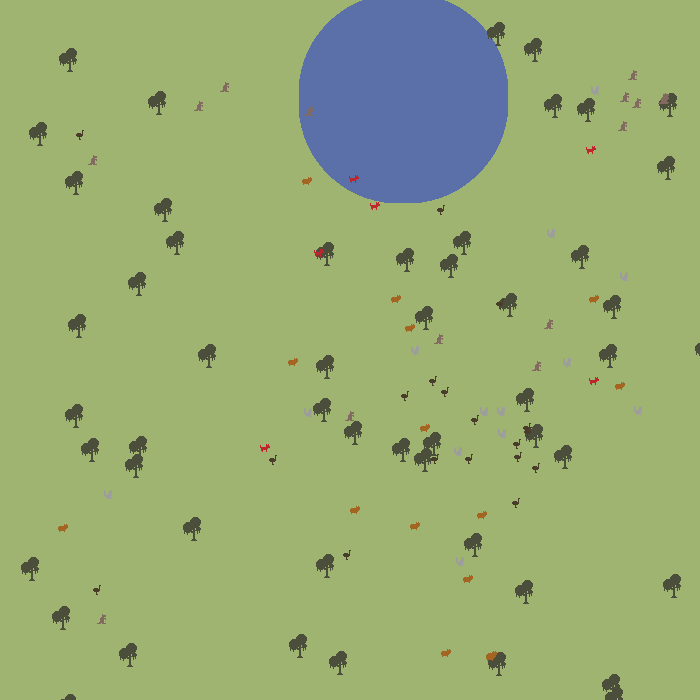
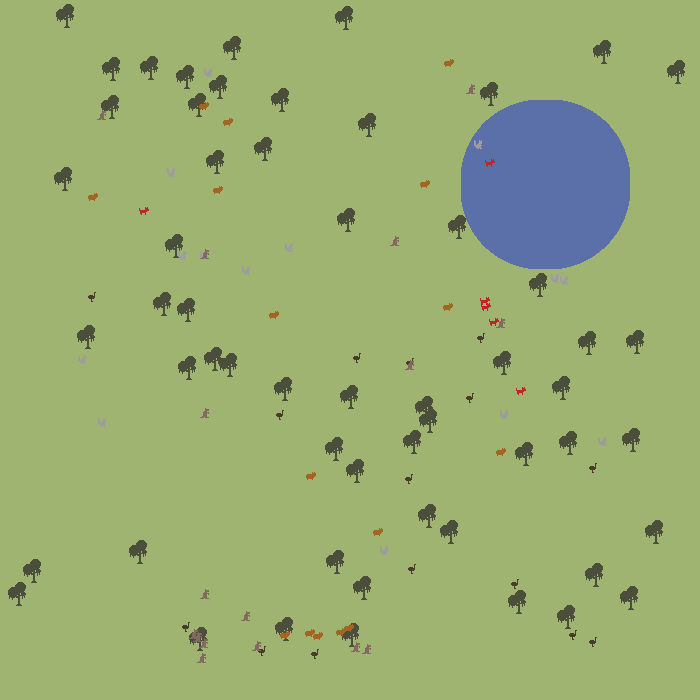
Visual fixes and additions + beginnings of parameter sweeps

diff --git a/main.py b/main.py
@@ -64,6 +64,9 @@ PREDATORC = (157, 6, 26)
 DISPLAY = pygame.display.set_mode((dimX,dimY))
 DISPLAY.fill(BACKGC)
 pygame.display.set_caption("Simulation Window")
+pygame.font.init()
+myfont = pygame.font.SysFont('Comic Sans MS', 30)
+
 
 #load images
 womimg = pygame.image.load('images/wombat.png')
@@ -291,7 +294,10 @@ while running:
     #Day/Night Cycle 
     if time >= 24: time, day = 0.0, day + 1
     else: time += 0.05
+    timeDisp = str(int(time)) + ':00'
     #Day/Night Visualisation
+    textsurface = myfont.render(timeDisp, False, (0, 0, 0))
+    DISPLAY.blit(textsurface,(10,10))
     if time > 19: BACKGC, WATERC, night = (159 * night, 180 * night, 112 * night), (92 * night, 114 * night, 170 * night), night - 0.009
     elif time < 5: BACKGC, WATERC, night = (159 * night, 180 * night, 112 * night), (92 * night, 114 * night, 170 * night), night + 0.009
     else: BACKGC, night = (159, 180, 112), 1.0

diff --git a/AnimalClasses.py b/AnimalClasses.py
@@ -115,7 +115,7 @@ class fox(animal):
 
     def death(self):
         self.isDead = self.isDead + random.randint(0,3)
-        if self.isDead > 1800:
+        if self.isDead > 1200:
             return(True)
 
 
